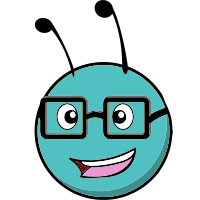
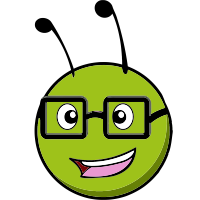
uhd

Changed region(s): [[0.18, 0.3, 0.87, 0.99]]

diff --git a/assets/css/styles.css b/assets/css/styles.css
@@ -87,8 +87,8 @@ a.btn .fa {
 
 .btn-primary,
 a.btn-primary {
-    background: #40babd;
-    border: 1px solid #40babd;
+    background: #a5dd37;
+    border: 1px solid #a5dd37;
     color: #fff !important;
 }
 
@@ -309,7 +309,7 @@ select {
 }
 
 #topcontrol {
-    background: #40babd;
+    background: #a5dd37;
     color: #fff;
     text-align: center;
     display: inline-block;
@@ -349,7 +349,7 @@ select {
 .header {
     background: #494d55;
     color: rgba(255, 255, 255, 0.85);
-    border-top: 5px solid #40babd;
+    border-top: 5px solid #a5dd37;
     padding: 30px 0;
 }
 
@@ -373,7 +373,7 @@ select {
 }
 
 .branding .text-highlight {
-    color: #40babd;
+    color: #a5dd37;
 }
 
 .body-green .branding .text-highlight {
@@ -407,7 +407,7 @@ select {
 
 .branding .icon {
     font-size: 24px;
-    color: #40babd;
+    color: #a5dd37;
 }
 
 .body-green .branding .icon {
@@ -468,7 +468,7 @@ select {
 }
 
 .footer a {
-    color: #40babd;
+    color: #a5dd37;
 }
 
 .footer .fa-heart {
@@ -490,7 +490,7 @@ select {
 }
 
 .doc-header .doc-title {
-    color: #40babd;
+    color: #a5dd37;
     margin-top: 0;
     font-size: 36px;
 }
@@ -965,7 +965,7 @@ select {
 
 .doc-menu > li > a:hover,
 .doc-menu > li > a:focus {
-    color: #40babd;
+    color: #a5dd37;
     text-decoration: none;
     background: none;
 }
@@ -1002,8 +1002,8 @@ select {
 
 .doc-menu > li.active > a {
     background: none;
-    border-left: 4px solid #40babd;
-    color: #40babd;
+    border-left: 4px solid #a5dd37;
+    color: #a5dd37;
     font-weight: 600;
 }
 
@@ -1060,7 +1060,7 @@ select {
 }
 
 .doc-sub-menu > li > a:hover {
-    color: #40babd;
+    color: #a5dd37;
     text-decoration: none;
     background: none;
 }
@@ -1095,7 +1095,7 @@ select {
 
 .doc-sub-menu > li.active > a {
     background: none;
-    color: #40babd;
+    color: #a5dd37;
 }
 
 .body-green .doc-sub-menu > li.active > a {
@@ -1332,7 +1332,7 @@ select {
 
 .landing-page .branding .icon {
     font-size: 32px;
-    color: #40babd;
+    color: #a5dd37;
 }
 
 .landing-page .tagline {
@@ -1447,7 +1447,7 @@ select {
 }
 
 .cards-section .item-primary .item-inner {
-    border-top: 3px solid #40babd;
+    border-top: 3px solid #a5dd37;
 }
 
 .cards-section .item-primary .item-inner:hover .title {
@@ -1455,7 +1455,7 @@ select {
 }
 
 .cards-section .item-primary .icon {
-    color: #40babd;
+    color: #a5dd37;
 }
 
 .cards-section .item-green .item-inner {

diff --git a/assets/less/theme-default.less b/assets/less/theme-default.less
@@ -1,5 +1,5 @@
 /* Theme default */
-@color-primary: #40babd;
+@color-primary: #B2DD4C;
 @color-green: #75c181;
 @color-red: #f77b6b;
 @color-blue: #58bbee;
